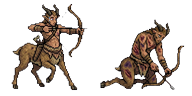
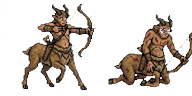
The wardens get their faces, and a correction
The three Tomb Wardens were drawn from the start and never wired: WILDS
never got the three lines, so every sentinel, golem and Keeper in twelve
sweeps was a placeholder silhouette. Nothing said so, because a wild
sheet no unit asks for is held quietly -- the rule that keeps eleven
undrawn creatures out of the warning list hid three drawn ones.

Cosmetic only, and the section 123 write-up claimed otherwise, so the
correction is written down beside the claim.

Also: where the same sheet exists in two folders the newest copy now
wins. Jeremy dropped weakened sheets beside the sprites and they lost
silently to the originals filed with everybody else, with the run
reporting them as up to date.

diff --git a/tools/prepare_art.py b/tools/prepare_art.py
@@ -91,6 +91,14 @@ WILDS = {
     "drowned": "drowned sailor",
     "wraith": "bilge wraith",
     "captain": "drowned captain",
+    # Section 123: the Tomb Wardens, who stand in ruins. Drawn in the same drop
+    # as everybody else and missed here when the ruins shipped, so they spent
+    # their first twelve sweeps as placeholder silhouettes -- which nothing
+    # reported, because a missing wild sheet is held quietly rather than
+    # complained about.
+    "sentinel": "bone sentinel",
+    "guardian": "animated guardian",
+    "keeper": "vault keeper",
 }
 
 TERRAINS = ["grass", "forest", "hills", "mountains", "swamp", "desert", "water", "deep"]
@@ -1764,17 +1772,26 @@ def wild_sheets(suffix: str, *folders: str) -> list[tuple[Path, str]]:
     it: the attack strips came in beside the sprites, the weakened sheets came
     in with everybody else's. Both are correct, neither is worth a rule, and
     looking in both costs nothing.
+
+    **The newest copy wins**, which matters because the same sheet can exist in
+    two folders: a re-roll dropped beside the sprites would otherwise lose to
+    the original filed with everybody else's, and the artist would be told
+    nothing at all -- the run would simply skip it as up to date. Asked of the
+    file's own timestamp rather than of the folder order, so neither folder has
+    to be "the real one".
     """
     found: list[tuple[Path, str]] = []
     for unit_id, creature in WILDS.items():
-        for folder in folders:
-            src = SRC / folder
-            if not src.is_dir():
-                continue
-            path = find_source(src, f"{creature} {suffix}")
-            if path is not None:
-                found.append((path, unit_id))
-                break
+        candidates = [
+            path
+            for folder in folders
+            if (SRC / folder).is_dir()
+            for path in [find_source(SRC / folder, f"{creature} {suffix}")]
+            if path is not None
+        ]
+        if not candidates:
+            continue
+        found.append((max(candidates, key=lambda p: p.stat().st_mtime), unit_id))
     return found
 
 

diff --git a/DESIGN_QUEUE.md b/DESIGN_QUEUE.md
@@ -10215,3 +10215,20 @@ ten-game *Horde* lean. The two runs disagree about the **sign**. A hundred and
 eight games an arm could not tell which side a feature favoured, which is worth
 remembering the next time a number at that sample size looks conclusive.
 
+### A correction about the art
+
+Section 123 said the three guardians "were already drawn and needed only the
+name map". Drawn, yes. **Wired, no** -- `WILDS` never got the three lines, so
+every Bone Sentinel, Animated Guardian and Vault Keeper in all twelve sweeps was
+a placeholder silhouette. Nothing reported it, because a wild sheet with no unit
+asking for it is *held quietly* rather than complained about: the very rule that
+keeps eleven undrawn creatures out of the warning list also hid three drawn ones.
+Cosmetic only -- the sim never asks what a unit looks like -- but the claim was
+wrong when it was made.
+
+Fixed with the drop of weakened sheets (2026-09-29), and one pipeline change
+with it: where the same sheet exists in two folders, **the newest copy wins**. A
+re-roll dropped beside the sprites used to lose silently to the original filed
+with everybody else's, and the run would report the sheet as up to date rather
+than take the new one.
+
